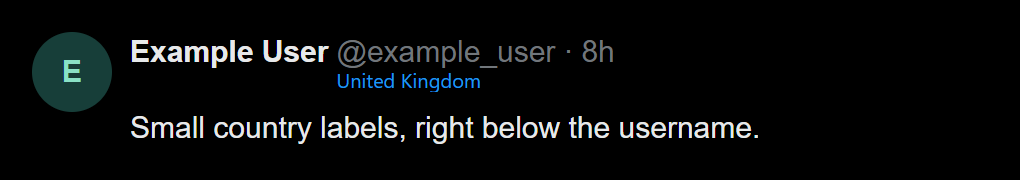
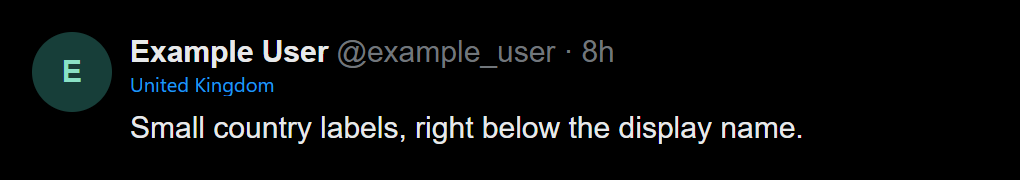
Align country labels beneath display names

Changed region(s): [[0.6078, 0.6389, 0.7902, 0.8056], [0.1216, 0.4167, 0.2735, 0.5278], [0.3343, 0.4167, 0.4863, 0.5]]

diff --git a/extension/content.js b/extension/content.js
@@ -45,11 +45,10 @@
     const links = [...header.querySelectorAll('a[href]')].filter(anchor => !anchor.classList.contains('xcl-badge') && profileHandle(anchor));
     if (!links.length) return null;
     const handle = profileHandle(links[0]);
-    // X normally has separate display-name and @username links. Anchor the
-    // location to the visible username, without moving any React-owned nodes.
-    const anchor = links.find(link => profileHandle(link) === handle && /^@[a-zA-Z0-9_]{1,15}$/.test(link.textContent.trim())) || links[0];
-    const username = [...anchor.querySelectorAll('span,div')].reverse().find(node => /^@[a-zA-Z0-9_]{1,15}$/.test(node.textContent.trim())) || anchor;
-    return { handle, anchor, username, header };
+    // X places the display-name profile link first, before the @handle.
+    // Use its position without moving any React-owned nodes.
+    const anchor = links[0];
+    return { handle, anchor, header };
   }
   function hideTarget(article) {
     const cell = article.closest('[data-testid="cellInnerDiv"]');
@@ -68,9 +67,9 @@
   function positionLabel(record) {
     if (record.target.classList.contains('xcl-filtered')) return;
     const header = record.header.getBoundingClientRect();
-    const username = record.username.getBoundingClientRect();
-    const left = Math.max(0, username.left - header.left - record.header.clientLeft);
-    const top = username.bottom - header.top - record.header.clientTop;
+    const displayName = record.anchor.getBoundingClientRect();
+    const left = Math.max(0, displayName.left - header.left - record.header.clientLeft);
+    const top = displayName.bottom - header.top - record.header.clientTop;
     record.badge.style.left = `${left}px`;
     record.badge.style.top = `${top}px`;
     record.badge.style.maxWidth = `${Math.min(175, Math.max(0, record.header.clientWidth - left))}px`;
@@ -79,7 +78,7 @@
     const current = author(article);
     let previous = state.get(article);
     if (!current || !settings.enabled) { restore(article); return; }
-    if (previous && (previous.handle !== current.handle || !previous.badge.isConnected || previous.anchor !== current.anchor || previous.username !== current.username || previous.header !== current.header)) {
+    if (previous && (previous.handle !== current.handle || !previous.badge.isConnected || previous.anchor !== current.anchor || previous.header !== current.header)) {
       restore(article);
       previous = null;
     }

diff --git a/README.md b/README.md
@@ -1,16 +1,16 @@
 # xdeporter
 
-Show X's public **account country or region in small blue text beneath the @username**, and filter posts using either a hide list or an allow list. Built for desktop Brave and other Chromium browsers using Manifest V3.
+Show X's public **account country or region in small blue text beneath the display name** (for example, “Libs of TikTok”), and filter posts using either a hide list or an allow list. Built for desktop Brave and other Chromium browsers using Manifest V3.
 
-**v0.1.1 is a beta.** The filtering, popup, and request bridge have automated coverage. Authenticated lookups have not yet been verified in a live X session. X's undocumented endpoint can change; the extension reports lookup failures and leaves unresolved locations as Unknown.
+**v0.1.2 is a beta.** The filtering, popup, and request bridge have automated coverage. Authenticated lookups have not yet been verified in a live X session. X's undocumented endpoint can change; the extension reports lookup failures and leaves unresolved locations as Unknown.
 
-![Example of the small blue country label below the username](docs/timeline-label.png)
+![Example of the small blue country label below the display name](docs/timeline-label.png)
 
 ![xdeporter filter controls](docs/popup.png)
 
 ## Download and install
 
-1. Download **xdeporter-v0.1.1.zip** from [Releases](https://github.com/ceo-of-slop/xdeporter/releases).
+1. Download **xdeporter-v0.1.2.zip** from [Releases](https://github.com/ceo-of-slop/xdeporter/releases).
 2. Extract the ZIP to a permanent folder. Keep that folder after installing.
 3. Open `brave://extensions`, enable **Developer mode**, and click **Load unpacked**.
 4. Select the extracted folder that contains `manifest.json`.
